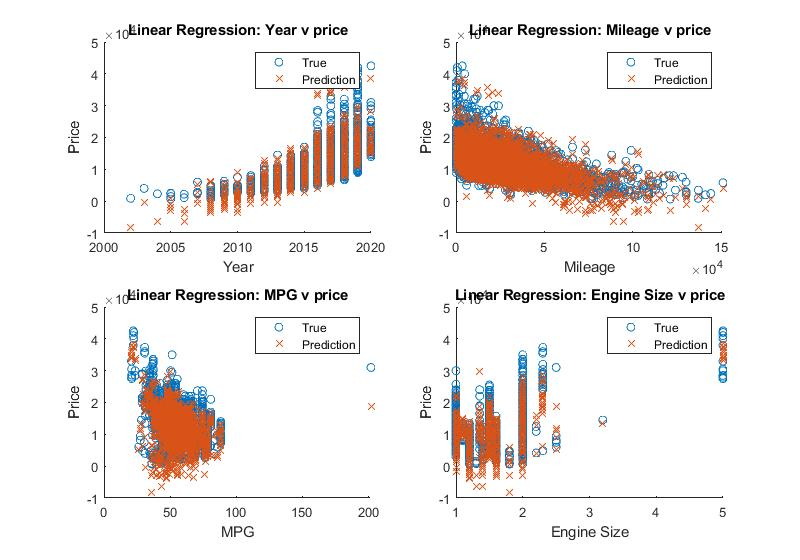
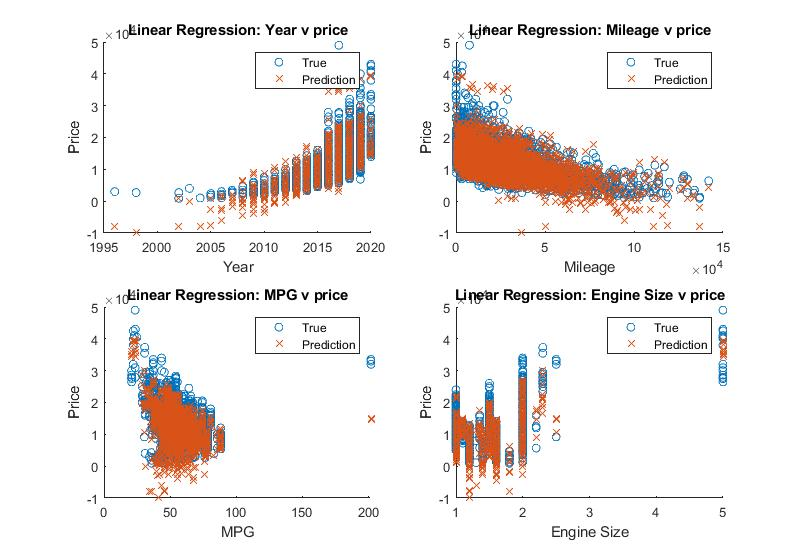
Updated intermediate results for correct normalisation

diff --git a/main.m b/main.m
@@ -191,9 +191,8 @@ y_valid = y_train(idxTest2);
 clear numrows2 cvpart2 idxTrain2 idxTest2
 
 % Optimised model
-mdlLR = fitrlinear(train_data_normed, y_train, 'Lambda', 0.0002972, ...
-      'Learner', 'leastsquares', 'Regularization', 'ridge', ...
-      'Solver', 'bfgs', 'FitBias', true, 'PostFitBias', false, 'OptimizeLearnRate', false);%'ValidationData', {valid_data, y_valid},
+mdlLR = fitrlinear(train_data_normed, y_train, 'Lambda', 0.000010015, 'Learner', 'leastsquares', 'Regularization', 'ridge', 'Solver', 'bfgs', 'FitBias', true, 'PostFitBias', false, 'OptimizeLearnRate', false);% 'ValidationData', {valid_data, y_valid}
+
 %mdlLR = fitrlinear(train_data_normed, y_train, 'Lambda', 0.00017074,...
 %    'Learner', 'leastsquares', 'Regularization', 'ridge', 'Solver', 'bfgs');
 
@@ -209,10 +208,10 @@ y_pred = predict(mdlLR, test_data_normed);
 % https://uk.mathworks.com/help/stats/fitrensemble.html
 
 % Fit model
-%mdlRF = fitrensemble(train_data, y_train);
-t = templateTree('MinLeafSize', 1);
-%mdlRF = fitrensemble(train_data, y_train, 'Method', 'LSBoost', 'NumLearningCycles', 193, 'LearnRate', 0.38119, 'Learners',t);
-% update method to Bag so that it uses random forest
+% mdlRF = fitrensemble(train_data, y_train);
+ t = templateTree('MinLeafSize', 1);
+% mdlRF = fitrensemble(train_data, y_train, 'Method', 'LSBoost', 'NumLearningCycles', 193, 'LearnRate', 0.38119, 'Learners',t);
+% % update method to Bag so that it uses random forest
 mdlRF = fitrensemble(train_data, y_train, 'Method', 'Bag', 'NumLearningCycles', 499, 'Learners',t);
 
 % Predict y
